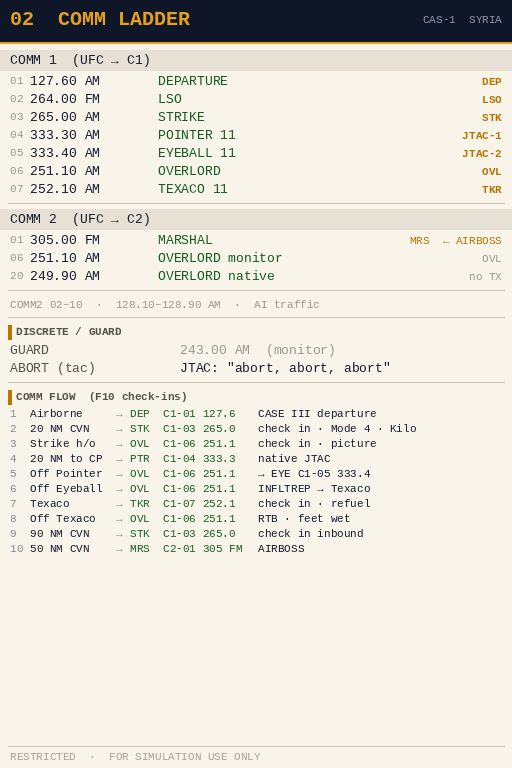
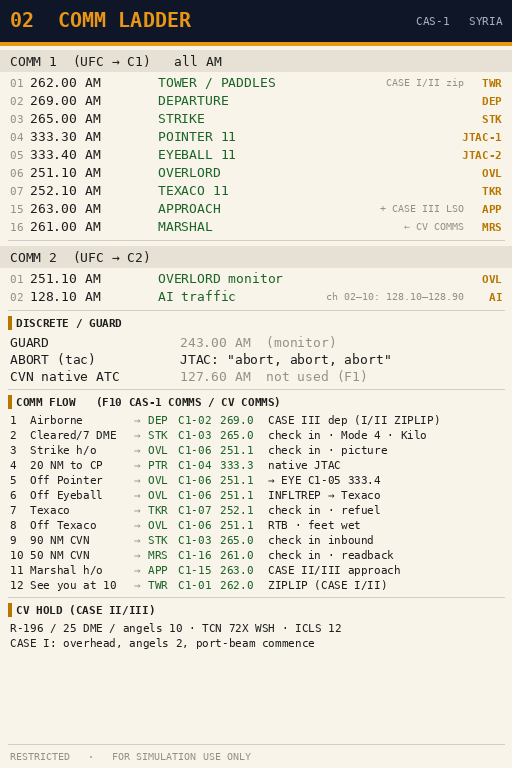
Kneeboard COMM ladder, COMM2 ch1, live BRC in Departure, commence scoring
- 02_COMM.png regenerated (tools/make_kneeboard_comm.py v2.0.0): COMM1
  262/269/265/333.3/333.4/251.1/252.1/263(15)/261(16) AM, COMM2, CV hold,
  12-step comm flow incl. Marshal/Approach/Tower
- Player_01 COMM2 ch1 305 -> 251.10 (Overlord monitor; 305 is AI traffic)
- Departure v1.0.2: CASE I/II heading check against the carrier's live true
  heading (was hardcoded 355, magnetic vs true)
- CV_Comms v1.5.3: commence graded +/-5 within +/-20 s of the EAT

Claude-Session: https://claude.ai/code/session_0148xnrThYTMCStmnJYL15do

diff --git a/tools/make_kneeboard_comm.py b/tools/make_kneeboard_comm.py
@@ -1,0 +1,72 @@
+# make_kneeboard_comm.py | v2.0.0  (src/KNEEBOARD/images/02_COMM.png; needs Pillow + DejaVu Sans Mono)
+from PIL import Image, ImageDraw, ImageFont
+W,H=512,768
+BG=(248,244,234); BAND=(230,225,212); NAVY=(15,22,40); ORG=(232,150,20)
+TXT=(30,30,30); GRN=(28,100,40); TAG=(182,118,0); GRY=(150,145,135); RULE=(210,206,196)
+F="/usr/share/fonts/truetype/dejavu/DejaVuSansMono.ttf"; FB="/usr/share/fonts/truetype/dejavu/DejaVuSansMono-Bold.ttf"
+f13=ImageFont.truetype(F,13); f11=ImageFont.truetype(F,11); fb11=ImageFont.truetype(FB,11); fT=ImageFont.truetype(FB,20); f10=ImageFont.truetype(F,10); fb10=ImageFont.truetype(FB,10)
+im=Image.new("RGB",(W,H),BG); d=ImageDraw.Draw(im)
+d.rectangle((0,0,W,42),fill=NAVY); d.rectangle((0,42,W,45),fill=ORG)
+d.text((10,8),"02  COMM LADDER",font=fT,fill=ORG)
+d.text((W-10,14),"CAS-1   SYRIA",font=f11,fill=(170,175,190),anchor="ra")
+y=50
+def band(t):
+    global y
+    d.rectangle((0,y,W,y+21),fill=BAND); d.text((10,y+3),t,font=f13,fill=TXT); y+=24
+def row(ch,fq,name,tag,note=""):
+    global y
+    d.text((10,y+2),ch,font=f11,fill=GRY); d.text((30,y),fq,font=f13,fill=TXT)
+    d.text((158,y),name,font=f13,fill=GRN)
+    if note: d.text((W-48,y+2),note,font=f10,fill=GRY,anchor="ra")
+    d.text((W-10,y+2),tag,font=fb11,fill=TAG,anchor="ra"); y+=18
+def rule():
+    global y
+    y+=4; d.line((8,y,W-8,y),fill=RULE); y+=6
+def head(t):
+    global y
+    d.rectangle((8,y,11,y+13),fill=TAG); d.text((16,y),t,font=fb11,fill=TXT); y+=18
+band("COMM 1  (UFC → C1)   all AM")
+row("01","262.00 AM","TOWER / PADDLES","TWR","CASE I/II zip")
+row("02","269.00 AM","DEPARTURE","DEP")
+row("03","265.00 AM","STRIKE","STK")
+row("04","333.30 AM","POINTER 11","JTAC-1")
+row("05","333.40 AM","EYEBALL 11","JTAC-2")
+row("06","251.10 AM","OVERLORD","OVL")
+row("07","252.10 AM","TEXACO 11","TKR")
+row("15","263.00 AM","APPROACH","APP","+ CASE III LSO")
+row("16","261.00 AM","MARSHAL","MRS","← CV COMMS")
+rule()
+band("COMM 2  (UFC → C2)")
+row("01","251.10 AM","OVERLORD monitor","OVL")
+row("02","128.10 AM","AI traffic","AI","ch 02–10: 128.10–128.90")
+rule()
+head("DISCRETE / GUARD")
+d.text((10,y),"GUARD",font=f13,fill=TXT); d.text((180,y),"243.00 AM  (monitor)",font=f13,fill=GRY); y+=17
+d.text((10,y),"ABORT (tac)",font=f13,fill=TXT); d.text((180,y),'JTAC: "abort, abort, abort"',font=f13,fill=TXT); y+=17
+d.text((10,y),"CVN native ATC",font=f13,fill=TXT); d.text((180,y),"127.60 AM  not used (F1)",font=f13,fill=GRY); y+=17
+rule()
+head("COMM FLOW   (F10 CAS-1 COMMS / CV COMMS)")
+flow=[("1","Airborne","DEP","C1-02","269.0","CASE III dep (I/II ZIPLIP)"),
+("2","Cleared/7 DME","STK","C1-03","265.0","check in · Mode 4 · Kilo"),
+("3","Strike h/o","OVL","C1-06","251.1","check in · picture"),
+("4","20 NM to CP","PTR","C1-04","333.3","native JTAC"),
+("5","Off Pointer","OVL","C1-06","251.1","→ EYE C1-05 333.4"),
+("6","Off Eyeball","OVL","C1-06","251.1","INFLTREP → Texaco"),
+("7","Texaco","TKR","C1-07","252.1","check in · refuel"),
+("8","Off Texaco","OVL","C1-06","251.1","RTB · feet wet"),
+("9","90 NM CVN","STK","C1-03","265.0","check in inbound"),
+("10","50 NM CVN","MRS","C1-16","261.0","check in · readback"),
+("11","Marshal h/o","APP","C1-15","263.0","CASE II/III approach"),
+("12","See you at 10","TWR","C1-01","262.0","ZIPLIP (CASE I/II)")]
+for n,a,b,c,fq,e in flow:
+    d.text((10,y),n,font=f11,fill=TXT); d.text((30,y),a,font=f11,fill=TXT)
+    d.text((134,y),"→",font=f11,fill=GRY); d.text((148,y),b,font=f11,fill=GRN)
+    d.text((178,y),c,font=f11,fill=GRN); d.text((220,y),fq,font=f11,fill=GRN); d.text((268,y),e,font=f11,fill=TXT); y+=15
+rule()
+head("CV HOLD (CASE II/III)")
+d.text((10,y),"R-196 / 25 DME / angels 10 · TCN 72X WSH · ICLS 12",font=f11,fill=TXT); y+=15
+d.text((10,y),"CASE I: overhead, angels 2, port-beam commence",font=f11,fill=TXT); y+=15
+print("bottom y",y)
+d.line((8,H-24,W-8,H-24),fill=RULE)
+d.text((10,H-18),"RESTRICTED   ·   FOR SIMULATION USE ONLY",font=f10,fill=GRY)
+im.save(__import__("sys").argv[1] if len(__import__("sys").argv) > 1 else "02_COMM.png")
